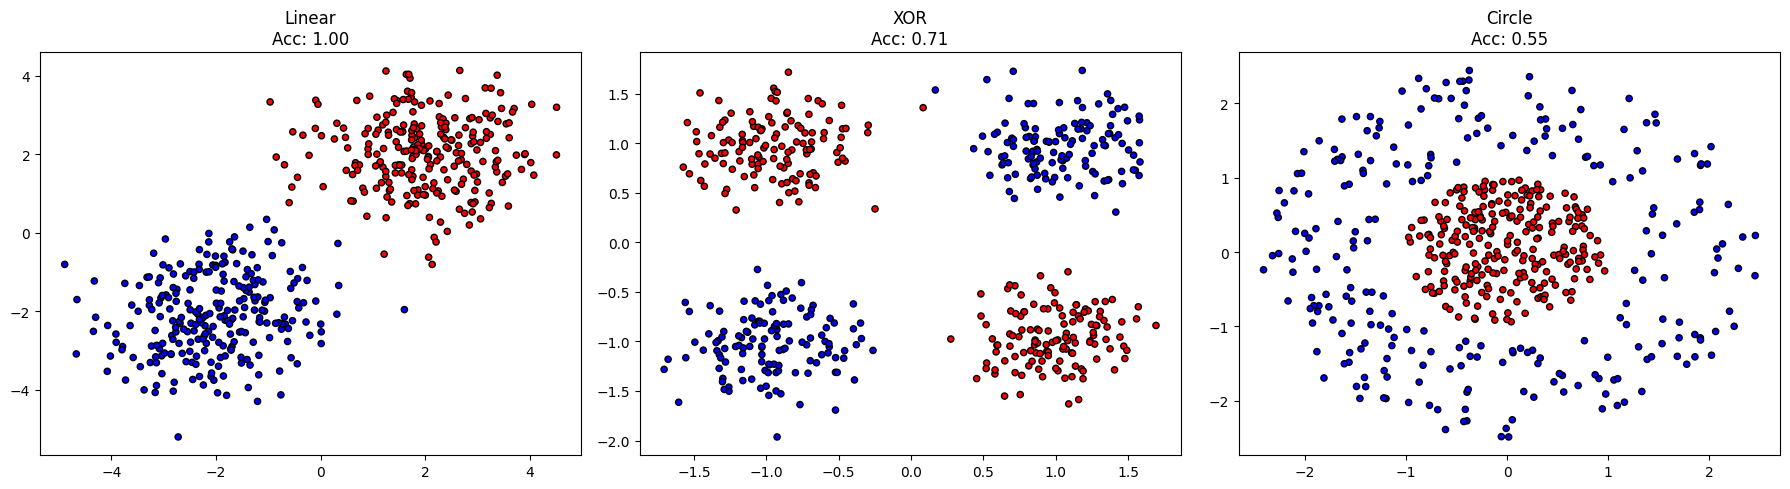
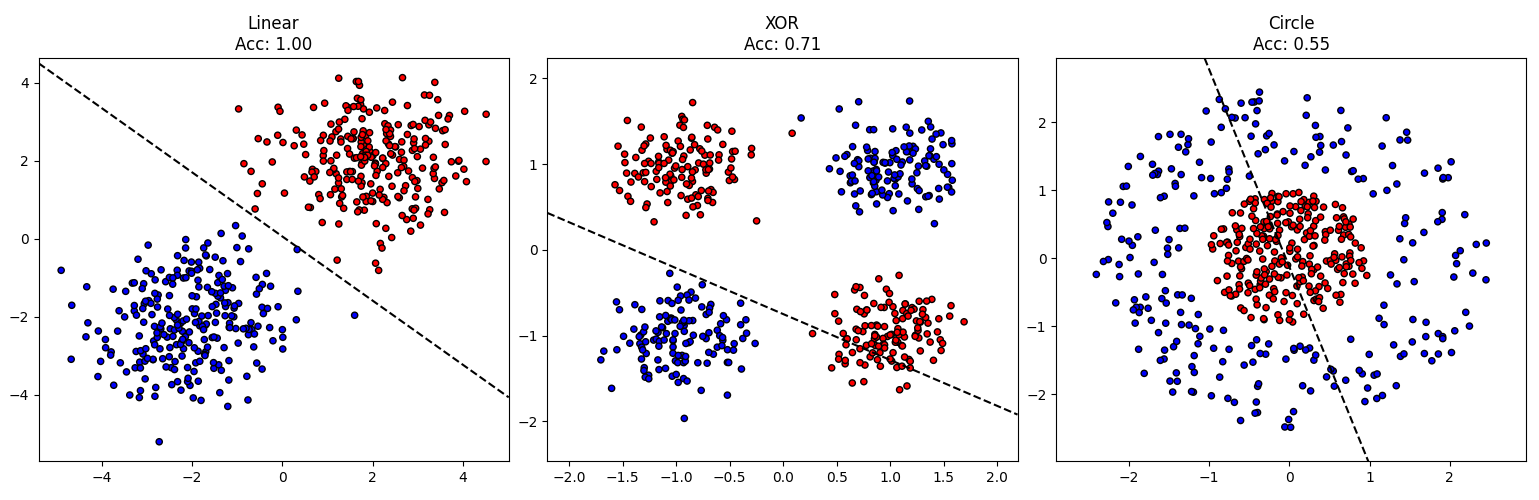
итоговая версия 3

diff --git a/dataset.py b/dataset.py
@@ -5,7 +5,6 @@ from sklearn.preprocessing import StandardScaler
 
 
 def create_notebook_dataset():
-    """Create the base split exactly as it is used in the notebook."""
     x, y = make_classification(
         n_samples=500,
         n_features=2,
@@ -29,7 +28,6 @@ def create_notebook_dataset():
 
 
 def create_standardized_dataset():
-    """Create the base split with train-only Z-score scaling required by the task."""
     x, y = make_classification(
         n_samples=500,
         n_features=2,